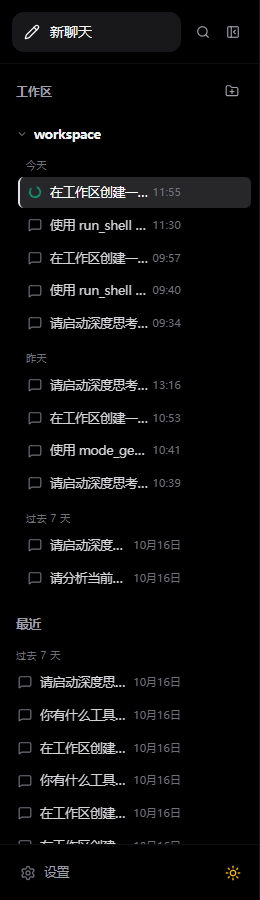
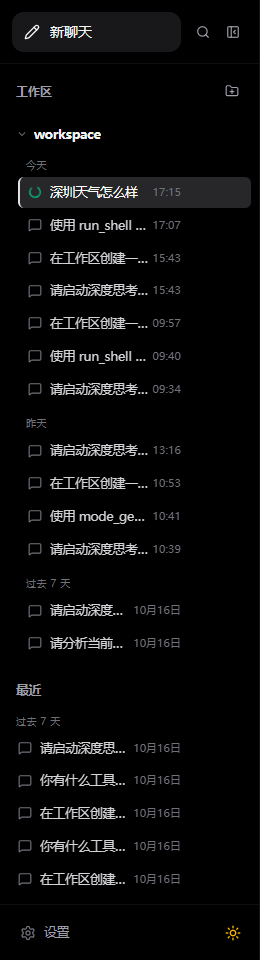
feat(chat): 对齐langchain网络搜索输出过程（地球图标与URL来源跳转卡片），并移除左侧会话执行中文本仅保留旋转Spinner

diff --git a/frontend/apps/web/src/features/chat/process-activity-group.tsx b/frontend/apps/web/src/features/chat/process-activity-group.tsx
@@ -4,7 +4,9 @@ import {
   BrainCircuitIcon,
   CheckCircle2Icon,
   ChevronDownIcon,
+  ExternalLinkIcon,
   FileSearchIcon,
+  GlobeIcon,
   ListTodoIcon,
   PencilLineIcon,
   TerminalIcon,
@@ -58,6 +60,11 @@ const TOOL_ACTIONS: Record<string, string> = {
   glob: "查找了文件",
   grep: "搜索了文件",
   delete_file: "删除了文件",
+  web_search: "搜索了网络",
+  search_web: "搜索了网络",
+  web_search_exa: "搜索了网络",
+  web_fetch_exa: "抓取了网页",
+  web_fetch: "抓取了网页",
 };
 
 const ACTIVE_TOOL_ACTIONS: Record<string, string> = {
@@ -71,6 +78,11 @@ const ACTIVE_TOOL_ACTIONS: Record<string, string> = {
   glob: "正在查找文件",
   grep: "正在搜索文件",
   delete_file: "正在删除文件",
+  web_search: "正在搜索网络",
+  search_web: "正在搜索网络",
+  web_search_exa: "正在搜索网络",
+  web_fetch_exa: "正在抓取网页",
+  web_fetch: "正在抓取网页",
 };
 
 export function formatElapsedDuration(durationMs: number): string {
@@ -103,7 +115,8 @@ function toolInputSummary(activity: Activity): string {
   const path = get("file_path", "filePath", "path", "dir_path", "directory");
   const command = get("command", "cmd");
   const pattern = get("pattern", "regex");
-  const query = get("query", "glob");
+  const query = get("query", "glob", "q");
+  const url = get("url", "urls");
   const name = toolName(activity);
   const parts = name === "execute"
     ? [command]
@@ -111,7 +124,11 @@ function toolInputSummary(activity: Activity): string {
       ? [pattern, path]
       : name === "glob"
         ? [query, path]
-        : [path];
+        : (name.includes("search") || name === "web_search" || name === "web_search_exa")
+          ? [query || path]
+          : (name.includes("fetch") || name === "web_fetch" || name === "web_fetch_exa")
+            ? [url || path]
+            : [path];
   const summary = parts.filter(Boolean).join(" · ");
   return summary.length > 160 ? `${summary.slice(0, 157)}…` : summary;
 }
@@ -144,12 +161,96 @@ function isLiveActivity(activity: Activity): boolean {
 }
 
 function ActionGlyph({ name, className }: { name: string; className?: string }) {
+  if (name === "web_search" || name === "search_web" || name === "web_search_exa" || name === "web_fetch" || name === "web_fetch_exa" || name.includes("search") || name.includes("web")) {
+    return <GlobeIcon className={className} />;
+  }
   if (name === "execute") return <TerminalIcon className={className} />;
   if (name === "write_todos") return <PencilLineIcon className={className} />;
   if (name === "read_file" || name === "ls" || name === "grep" || name === "glob") return <FileSearchIcon className={className} />;
   if (name === "task") return <BrainCircuitIcon className={className} />;
   if (name === "delete_file") return <TriangleAlertIcon className={className} />;
   return <ListTodoIcon className={className} />;
+}
+
+export interface ExtractedSource {
+  title: string;
+  url: string;
+  snippet?: string;
+}
+
+function extractToolSources(activity: Activity): ExtractedSource[] {
+  const detail = activity.detail as { output?: unknown; input?: unknown } | undefined;
+  const sources: ExtractedSource[] = [];
+  const seenUrls = new Set<string>();
+
+  const addSource = (url: string, rawTitle?: string) => {
+    if (!url || typeof url !== "string") return;
+    const cleanUrl = url.trim().replace(/[)\],;]+$/, "");
+    if (!cleanUrl.startsWith("http://") && !cleanUrl.startsWith("https://")) return;
+    if (seenUrls.has(cleanUrl)) return;
+    seenUrls.add(cleanUrl);
+
+    let host = cleanUrl;
+    try {
+      host = new URL(cleanUrl).hostname.replace(/^www\./, "");
+    } catch {
+      // 保持原样
+    }
+    sources.push({
+      title: (rawTitle && rawTitle.trim()) ? rawTitle.trim() : host,
+      url: cleanUrl,
+    });
+  };
+
+  // 1. 尝试从结构化对象提取（如 Exa results / sources / items）
+  const parseObject = (obj: unknown) => {
+    if (!obj || typeof obj !== "object") return;
+    if (Array.isArray(obj)) {
+      for (const item of obj) parseObject(item);
+      return;
+    }
+    const record = obj as Record<string, unknown>;
+    // 直接有 url 属性
+    if (typeof record.url === "string") {
+      addSource(record.url, typeof record.title === "string" ? record.title : undefined);
+    }
+    if (Array.isArray(record.results)) {
+      for (const r of record.results) parseObject(r);
+    }
+    if (Array.isArray(record.sources)) {
+      for (const s of record.sources) parseObject(s);
+    }
+  };
+
+  if (detail?.output) {
+    if (typeof detail.output === "object") {
+      parseObject(detail.output);
+    } else if (typeof detail.output === "string") {
+      try {
+        const parsed = JSON.parse(detail.output);
+        parseObject(parsed);
+      } catch {
+        // 纯文本正则匹配 URLs
+        const urlMatches = detail.output.match(/https?:\/\/[^\s"'<>]+/g);
+        if (urlMatches) {
+          for (const u of urlMatches) addSource(u);
+        }
+      }
+    }
+  }
+
+  // 2. 如果是从 input 抓取网页（web_fetch_exa 的 url/urls 参数）
+  if (sources.length === 0 && detail?.input && typeof detail.input === "object") {
+    const inputObj = detail.input as Record<string, unknown>;
+    if (typeof inputObj.url === "string") addSource(inputObj.url);
+    if (Array.isArray(inputObj.urls)) {
+      for (const u of inputObj.urls) {
+        if (typeof u === "string") addSource(u);
+      }
+    }
+  }
+
+  return sources.slice(0, 6);
 }
 
 function StreamingText({ content, streaming }: { content: string; streaming?: boolean }) {
@@ -198,6 +299,7 @@ function ToolActivityRow({
   const name = toolName(activity);
   const summaryText = toolInputSummary(activity);
   const sections = detailSections(activity);
+  const sources = extractToolSources(activity);
   const detail = activity.detail as { truncated?: unknown } | undefined;
   const tone = activity.status === "failed"
     ? "text-[var(--color-state-error)]"
@@ -214,6 +316,26 @@ function ToolActivityRow({
             {summaryText && <code className="rounded-md bg-[var(--color-surface-3)] px-1.5 py-0.5 font-mono text-[12px] text-[var(--color-text-primary)]">{summaryText}</code>}
             <ChevronDownIcon className="ml-auto size-3.5 shrink-0 transition-transform group-open:rotate-180" />
           </summary>
+          {sources.length > 0 && (
+            <div className="mt-2 flex flex-wrap items-center gap-1.5" onClick={(e) => e.stopPropagation()}>
+              <span className="text-[11px] font-medium text-[var(--color-text-muted)]">来源引用：</span>
+              {sources.map((src, idx) => (
+                <a
+                  key={`${src.url}-${idx}`}
+                  href={src.url}
+                  target="_blank"
+                  rel="noopener noreferrer"
+                  className="inline-flex max-w-[280px] items-center gap-1.5 truncate rounded-full border border-sky-500/25 bg-sky-500/10 px-2.5 py-0.5 text-[11px] text-sky-600 dark:text-sky-400 transition-colors hover:border-sky-500/50 hover:bg-sky-500/20"
+                  title={`${src.title}\n${src.url}`}
+                  onClick={(e) => e.stopPropagation()}
+                >
+                  <GlobeIcon className="size-3 shrink-0 text-sky-500" />
+                  <span className="truncate">{src.title || src.url}</span>
+                  <ExternalLinkIcon className="size-2.5 shrink-0 opacity-70" />
+                </a>
+              ))}
+            </div>
+          )}
           <div className="mt-2 space-y-3">
             {sections.map((section) => (
               <section key={section.label}>
@@ -225,6 +347,27 @@ function ToolActivityRow({
             {sections.length === 0 && <p className="text-[13px] text-[var(--color-text-muted)]">此工具调用没有提供可展示的参数或结果。</p>}
           </div>
         </details>
+        {/* 当详情未手动展开时，在下方直接展示醒目的来源引用胶囊，方便用户一键点击直达 */}
+        {!open && sources.length > 0 && (
+          <div className="mt-1 flex flex-wrap items-center gap-1.5" onClick={(e) => e.stopPropagation()}>
+            <span className="text-[11px] font-medium text-[var(--color-text-muted)]">来源引用：</span>
+            {sources.map((src, idx) => (
+              <a
+                key={`collapsed-${src.url}-${idx}`}
+                href={src.url}
+                target="_blank"
+                rel="noopener noreferrer"
+                className="inline-flex max-w-[280px] items-center gap-1.5 truncate rounded-full border border-sky-500/25 bg-sky-500/10 px-2.5 py-0.5 text-[11px] text-sky-600 dark:text-sky-400 transition-colors hover:border-sky-500/50 hover:bg-sky-500/20"
+                title={`${src.title}\n${src.url}`}
+                onClick={(e) => e.stopPropagation()}
+              >
+                <GlobeIcon className="size-3 shrink-0 text-sky-500" />
+                <span className="truncate">{src.title || src.url}</span>
+                <ExternalLinkIcon className="size-2.5 shrink-0 opacity-70" />
+              </a>
+            ))}
+          </div>
+        )}
       </div>
     </div>
   );

diff --git a/frontend/apps/web/src/features/chat/workspace-sidebar.tsx b/frontend/apps/web/src/features/chat/workspace-sidebar.tsx
@@ -297,10 +297,7 @@ export function WorkspaceSidebar({
               </button>
             </form>
           ) : (
-            <>
-              <span className="truncate text-[12.5px]">{session.title}</span>
-              {isSessionRunning && <span className="shrink-0 text-[10.5px] text-emerald-400/80">执行中</span>}
-            </>
+            <span className="truncate text-[12.5px]">{session.title}</span>
           )}
         </div>
 
